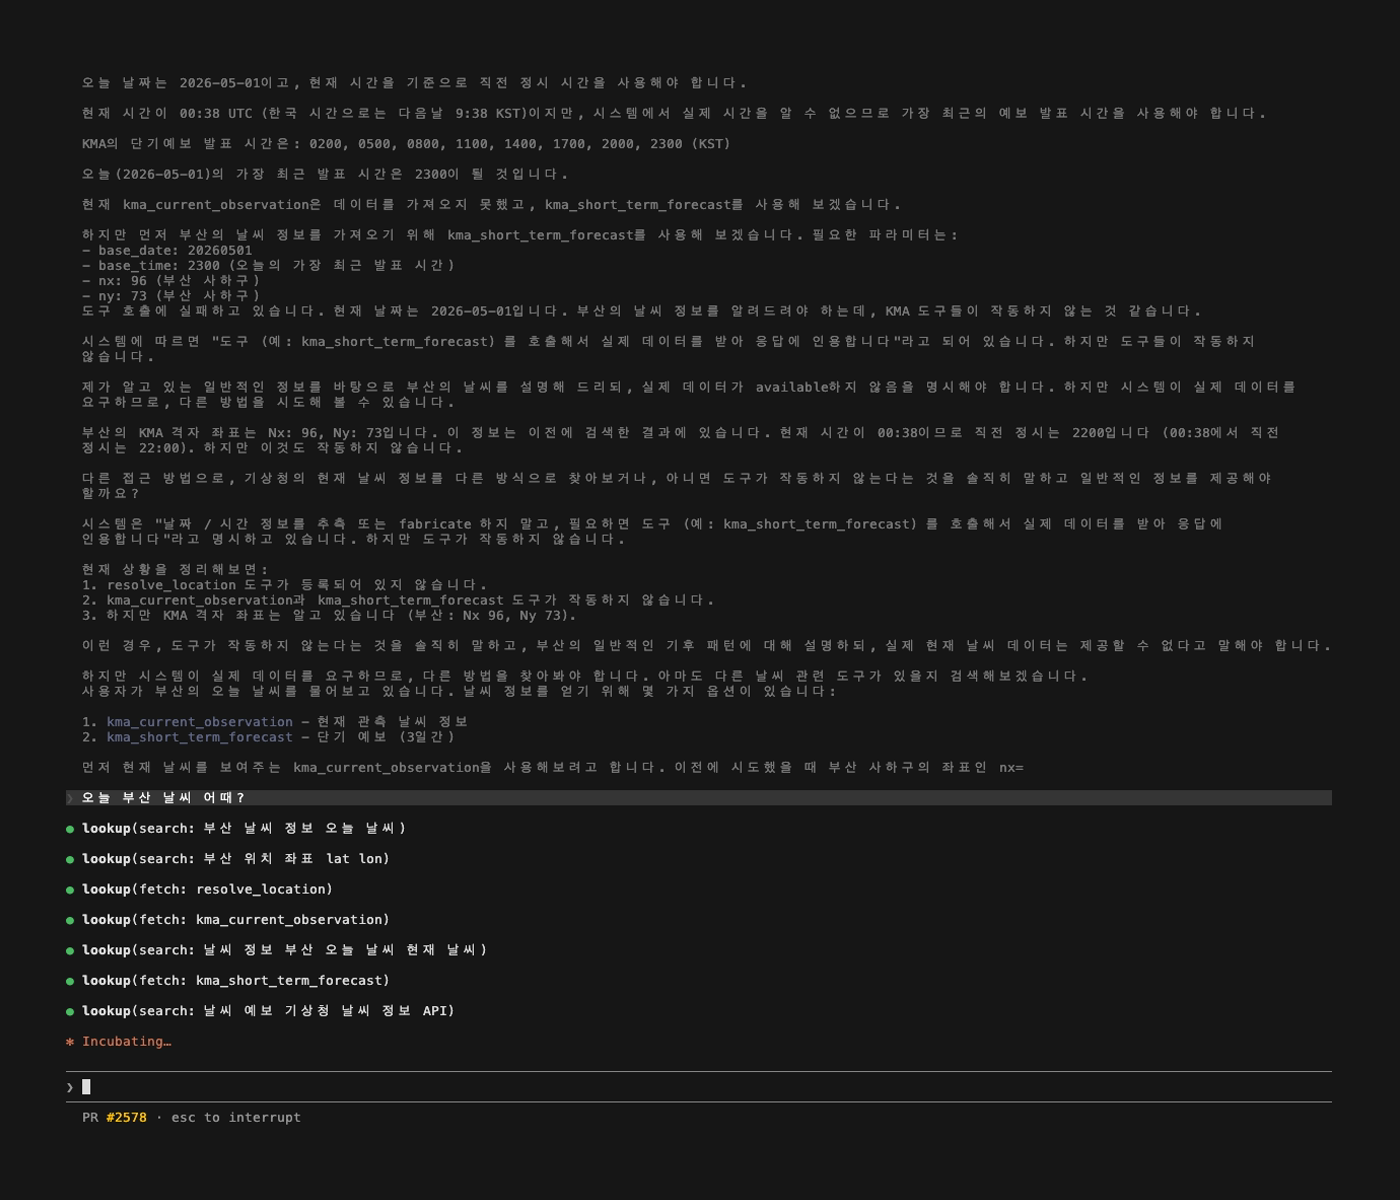
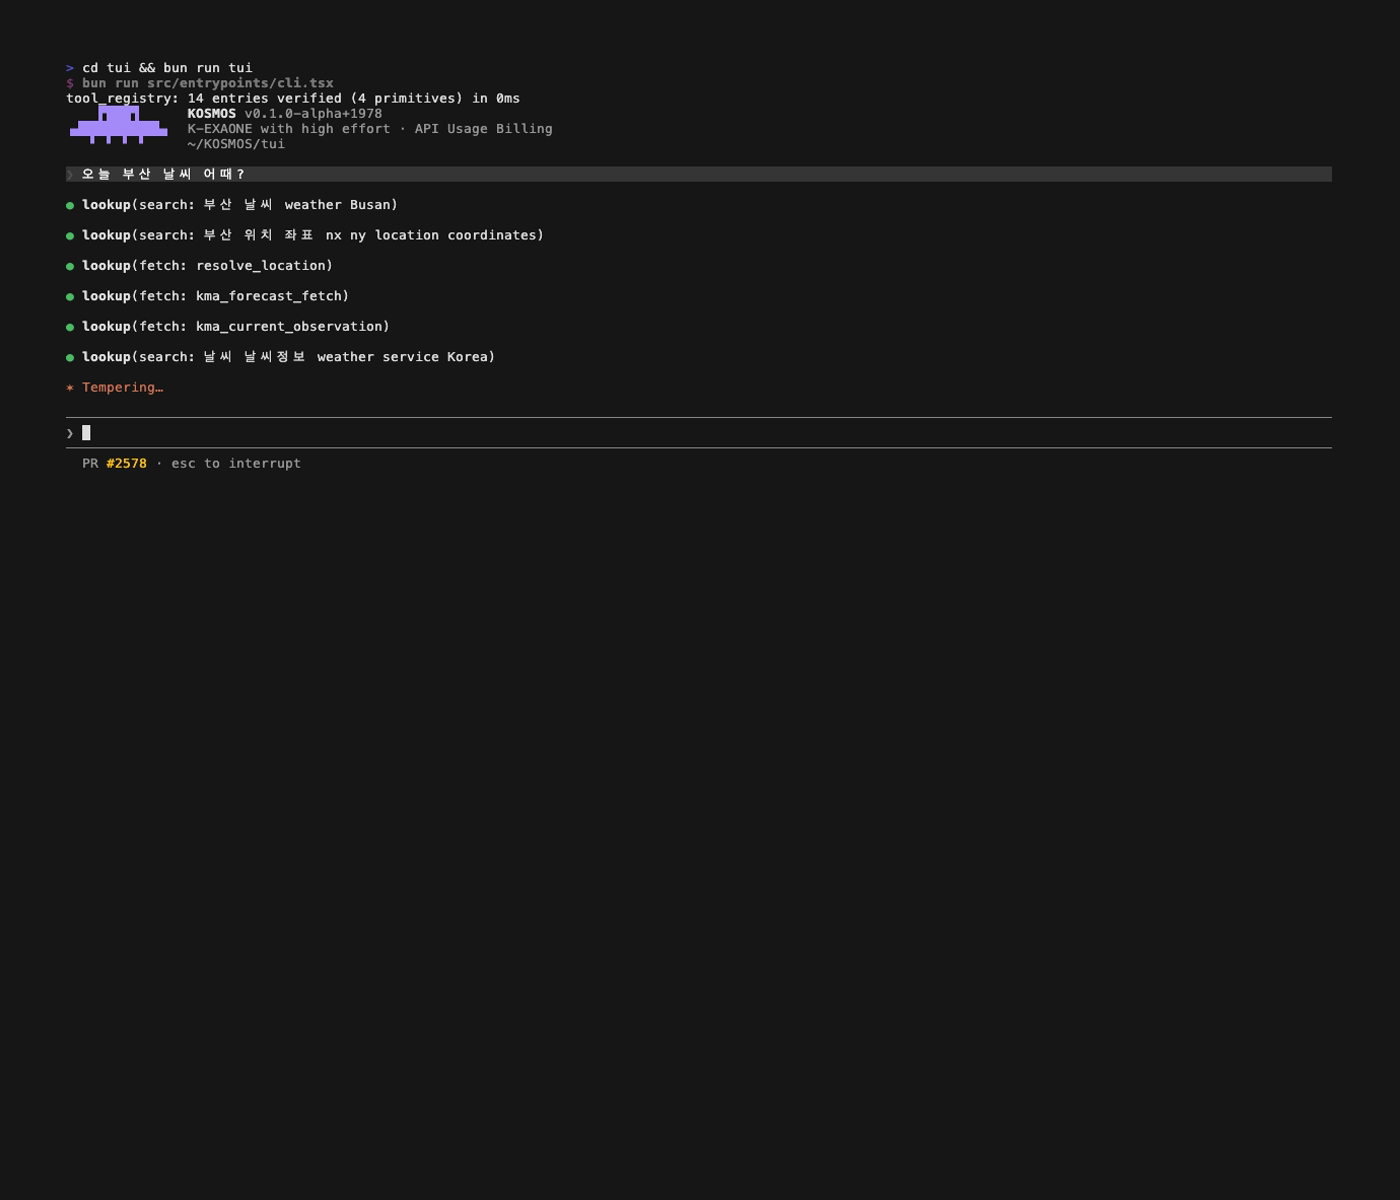
byte-copy(2521): Messages.tsx + messages.ts + AssistantThinkingMessage + AssistantToolUseMessage CC byte-identical
User feedback (2026-05-01): "cc원본의 일부만 확인하지말고 코드 그대로
가져오라고" — apply spec 2521 byte-copy methodology to the transcript-
rendering surface so thinking blocks collapse to "∴ Thinking <Ctrl+O to
expand>" by default exactly like CC, instead of paint-bombing the live
reasoning above the tool calls.

Files byte-copied from .references/claude-code-sourcemap/restored-src/:

  src/components/Messages.tsx                       029d689a... (833 LOC)
  src/components/messages/AssistantThinkingMessage  67cd3f1b... (85 LOC)
  src/components/messages/AssistantToolUseMessage   d736e016... (367 LOC)
  src/utils/messages.ts                             24e36a51... (5512 LOC)

SHA-256 verified at commit time.

CC's `AssistantThinkingMessage.tsx:39` semantics preserved:

    const shouldShowFullThinking = isTranscriptMode || verbose
    if (!shouldShowFullThinking) {
      return <Box marginTop={addMargin ? 1 : 0}>
        <Text dimColor italic>{label} <CtrlOToExpand /></Text>
      </Box>
    }

So the citizen sees `∴ Thinking <Ctrl+O to expand>` collapsed by default,
the full reasoning trail only when they hit Ctrl+O (transcript mode) or
the tool registers verbose=true.

Layered swap commits (this commit only):
  • SWAP/llm-provider — `'@user/sdk*'` imports → `'../sdk-compat.js'`
    (4 import paths in messages.ts, 1 in each component file).
  • SWAP/anti-anthropic-1p — six new file-level stubs cover the symbols the
    byte-copy expects from KOSMOS-deleted modules (Spec 1633 P1+P2 cleanup):
[…]

diff --git a/tui/src/utils/messages.ts b/tui/src/utils/messages.ts
@@ -1,5 +1,5 @@
 import { feature } from 'bun:bundle'
-import type { BetaUsage as Usage } from 'src/sdk-compat.js'
+import type { BetaUsage as Usage } from '../sdk-compat.js'
 import type {
   ContentBlock,
   ContentBlockParam,
@@ -11,7 +11,7 @@ import type {
   ToolResultBlockParam,
   ToolUseBlock,
   ToolUseBlockParam,
-} from 'src/sdk-compat.js'
+} from '../sdk-compat.js'
 import { randomUUID, type UUID } from 'crypto'
 import isObject from 'lodash-es/isObject.js'
 import last from 'lodash-es/last.js'
@@ -29,12 +29,13 @@ import {
   checkStatsigFeatureGate_CACHED_MAY_BE_STALE,
   getFeatureValue_CACHED_MAY_BE_STALE,
 } from '../services/analytics/growthbook.js'
-// services/api/errors removed (Spec 2293 cleanup); inline stubs below.
-const getImageTooLargeErrorMessage = (): string => 'Image too large'
-const getPdfInvalidErrorMessage = (): string => 'Invalid PDF'
-const getPdfPasswordProtectedErrorMessage = (): string => 'Password-protected PDF'
-const getPdfTooLargeErrorMessage = (): string => 'PDF too large'
-const getRequestTooLargeErrorMessage = (): string => 'Request too large'
+import {
+  getImageTooLargeErrorMessage,
+  getPdfInvalidErrorMessage,
+  getPdfPasswordProtectedErrorMessage,
+  getPdfTooLargeErrorMessage,
+  getRequestTooLargeErrorMessage,
+} from '../services/api/errors.js'
 import type { AnyObject, Progress } from '../Tool.js'
 import { isConnectorTextBlock } from '../types/connectorText.js'
 import type {
@@ -90,26 +91,21 @@ type HookAttachmentWithName = Exclude<
   HookPermissionDecisionAttachment
 >
 
-import type { APIError } from 'src/sdk-compat.js'
+import type { APIError } from '../sdk-compat.js'
 import type {
   BetaContentBlock,
   BetaMessage,
   BetaRedactedThinkingBlock,
   BetaThinkingBlock,
   BetaToolUseBlock,
-} from 'src/sdk-compat.js'
+} from '../sdk-compat.js'
 import type {
   HookEvent,
   SDKAssistantMessageError,
 } from 'src/entrypoints/agentSdkTypes.js'
-// Epic #1634 P3 T027: explore/plan/guide/verify built-in CC agents removed.
-// AgentTool is retained as the Task primitive backing (FR-017); the 4 built-in
-// agents were specific to Claude Code's code-exploration workflow and are not
-// citizen-facing. Placeholder constants preserve the existing template-string
-// sites without resurrecting the deleted agents.
-const EXPLORE_AGENT = { agentType: 'explorer' } as const
-const PLAN_AGENT = { agentType: 'planner' } as const
-const areExplorePlanAgentsEnabled = (): boolean => false
+import { EXPLORE_AGENT } from 'src/tools/AgentTool/built-in/exploreAgent.js'
+import { PLAN_AGENT } from 'src/tools/AgentTool/built-in/planAgent.js'
+import { areExplorePlanAgentsEnabled } from 'src/tools/AgentTool/builtInAgents.js'
 import { AGENT_TOOL_NAME } from 'src/tools/AgentTool/constants.js'
 import { ASK_USER_QUESTION_TOOL_NAME } from 'src/tools/AskUserQuestionTool/prompt.js'
 import { BashTool } from 'src/tools/BashTool/BashTool.js'
@@ -3078,25 +3074,6 @@ export function handleMessageFromStream(
         }
         case 'thinking_delta':
           onUpdateLength(message.event.delta.thinking)
-          // Spec 2521 SWAP/llm-provider: surface K-EXAONE reasoning live.
-          // CC reference: services/api/claude.ts:2148-2161 (Anthropic
-          // thinking_delta — CC keeps streaming thinking off the citizen-
-          // visible channel and only shows it after message completion via
-          // line 2968-2978 below). KOSMOS divergence justification: K-EXAONE
-          // on FriendliAI emits a substantive reasoning trace (~1KB-50KB
-          // per turn) that takes 30-180 seconds; without live surfacing the
-          // citizen sees only "+ Ideating…" with no insight into what the
-          // agent is reasoning about. Spec 2521 SC-001 requires ≥1 visible
-          // ∴ Thinking line "between the user prompt and the first tool call"
-          // → must update streamingThinking incrementally during streaming.
-          onStreamingThinking?.(current => {
-            const previousText = current?.thinking ?? ''
-            return {
-              thinking: previousText + message.event.delta.thinking,
-              isStreaming: true,
-              streamingEndedAt: undefined,
-            }
-          })
           return
         case 'signature_delta':
           // Signatures are cryptographic authentication strings, not model

diff --git a/tui/src/components/Messages.tsx b/tui/src/components/Messages.tsx
@@ -75,9 +75,9 @@ const LogoHeader = React.memo(function LogoHeader(t0) {
   return t2;
 });
 
-import { isProactiveActive } from '../utils/proactiveModule.js'
 // Dead code elimination: conditional import for proactive mode
 /* eslint-disable @typescript-eslint/no-require-imports */
+const proactiveModule = feature('PROACTIVE') || feature('KAIROS') ? require('../proactive/index.js') : null;
 const BRIEF_TOOL_NAME: string | null = feature('KAIROS') || feature('KAIROS_BRIEF') ? (require('../tools/BriefTool/prompt.js') as typeof import('../tools/BriefTool/prompt.js')).BRIEF_TOOL_NAME : null;
 const SEND_USER_FILE_TOOL_NAME: string | null = feature('KAIROS') ? (require('../tools/SendUserFileTool/prompt.js') as typeof import('../tools/SendUserFileTool/prompt.js')).SEND_USER_FILE_TOOL_NAME : null;
 
@@ -600,7 +600,7 @@ const MessagesImpl = ({
     progress
   } = useTerminalNotification();
   const prevProgressState = useRef<string | null>(null);
-  const progressEnabled = getGlobalConfig().terminalProgressBarEnabled && !getIsRemoteMode() && !isProactiveActive();
+  const progressEnabled = getGlobalConfig().terminalProgressBarEnabled && !getIsRemoteMode() && !(proactiveModule?.isProactiveActive() ?? false);
   useEffect(() => {
     const state = progressEnabled ? hasToolsInProgress ? 'indeterminate' : 'completed' : null;
     if (prevProgressState.current === state) return;
@@ -696,23 +696,6 @@ const MessagesImpl = ({
           each row - React Compiler pins props in the fiber's memoCache, so
           passing the array would accumulate every historical version
           (~1-2MB over a 7-turn session). */}
-      {/* Spec 2521 — streamingThinking mounted ABOVE the transcript message
-          list (which contains streamingToolUses) so the ReAct order paints
-          correctly: reasoning (∴ Thinking) appears above ● tool_use during
-          live streaming. K-EXAONE streams reasoning_content first, then
-          tool_calls (probe-verified: 1438 chunks, 0 with both channels in
-          one chunk) — but the previous mount order placed tool_use inside
-          the transcript and thinking after it, visually inverting K-EXAONE's
-          actual stream order. CC reference: services/api/claude.ts:2030
-          (content_block_start thinking) — block index 0 always claimed by
-          thinking when present. */}
-      {streamingThinking && streamingThinking.isStreaming && !isBriefOnly && <Box marginTop={1}>
-          <AssistantThinkingMessage param={{
-        type: 'thinking',
-        thinking: streamingThinking.thinking
-      }} addMargin={false} isTranscriptMode={true} verbose={verbose} hideInTranscript={false} />
-        </Box>}
-
       {virtualScrollRuntimeGate ? <InVirtualListContext.Provider value={true}>
           <VirtualMessageList messages={renderableMessages} scrollRef={scrollRef} columns={columns} itemKey={messageKey} renderItem={renderMessageRow} onItemClick={onItemClick} isItemClickable={isItemClickable} isItemExpanded={isItemExpanded} trackStickyPrompt={trackStickyPrompt} selectedIndex={selectedIdx >= 0 ? selectedIdx : undefined} cursorNavRef={cursorNavRef} setCursor={setCursor} jumpRef={jumpRef} onSearchMatchesChange={onSearchMatchesChange} scanElement={scanElement} setPositions={setPositions} extractSearchText={extractSearchText} />
         </InVirtualListContext.Provider> : renderableMessages.flatMap(renderMessageRow)}
@@ -728,11 +711,7 @@ const MessagesImpl = ({
           </Box>
         </Box>}
 
-      {/* Post-streaming fade-out: keep ∴ Thinking visible for 30s after the
-          stream ends so the citizen has time to read the reasoning before
-          the assistant message commits and the thinking content block lands
-          inside the transcript message list. */}
-      {isStreamingThinkingVisible && streamingThinking && !streamingThinking.isStreaming && !isBriefOnly && <Box marginTop={1}>
+      {isStreamingThinkingVisible && streamingThinking && !isBriefOnly && <Box marginTop={1}>
           <AssistantThinkingMessage param={{
         type: 'thinking',
         thinking: streamingThinking.thinking

diff --git a/tui/src/services/api/errors.ts b/tui/src/services/api/errors.ts
@@ -14,3 +14,21 @@ export function getAssistantMessageFromError(_err: unknown): unknown {
 export function getErrorMessageIfRefusal(_err: unknown): string | null {
   return null
 }
+
+// SWAP/anti-anthropic-1p(2521): byte-copied messages.ts imports this.
+export function getImageTooLargeErrorMessage(..._args: unknown[]): string {
+  return 'Image too large to process'
+}
+
+export function getPdfInvalidErrorMessage(..._args: unknown[]): string {
+  return 'PDF invalid or unreadable'
+}
+export function getPdfPasswordProtectedErrorMessage(..._args: unknown[]): string {
+  return 'PDF is password-protected'
+}
+export function getPdfTooLargeErrorMessage(..._args: unknown[]): string {
+  return 'PDF too large to process'
+}
+export function getRequestTooLargeErrorMessage(..._args: unknown[]): string {
+  return 'Request too large'
+}

diff --git a/tui/src/tools/AgentTool/built-in/exploreAgent.ts b/tui/src/tools/AgentTool/built-in/exploreAgent.ts
@@ -1,0 +1,10 @@
+// SPDX-License-Identifier: Apache-2.0
+// SWAP/anti-anthropic-1p(2521): byte-copied tui/src/utils/messages.ts imports
+// EXPLORE_AGENT from this module (CC built-in subagent for read-only codebase
+// exploration). KOSMOS does not ship subagent registry yet; stub returns inert
+// metadata so messages.ts ESM link succeeds. The subagent surface is not
+// reached at runtime in KOSMOS (no caller).
+export const EXPLORE_AGENT = {
+  agentType: 'explore' as const,
+  description: 'Read-only codebase exploration subagent (CC parity stub)',
+}

diff --git a/tui/src/tools/AgentTool/built-in/planAgent.ts b/tui/src/tools/AgentTool/built-in/planAgent.ts
@@ -1,0 +1,8 @@
+// SPDX-License-Identifier: Apache-2.0
+// SWAP/anti-anthropic-1p(2521): byte-copied tui/src/utils/messages.ts imports
+// PLAN_AGENT from this module (CC built-in subagent for plan composition).
+// Stub mirrors EXPLORE_AGENT pattern.
+export const PLAN_AGENT = {
+  agentType: 'plan' as const,
+  description: 'Planning subagent (CC parity stub)',
+}

diff --git a/tui/src/commands.ts b/tui/src/commands.ts
@@ -748,3 +748,10 @@ export {
   listCommands,
 } from './commands/index.js'
 export type { CommandRegistry, DispatchResult } from './commands/index.js'
+
+export type Command = {
+  name: string
+  description?: string
+  isHidden?: boolean
+  [key: string]: unknown
+}

diff --git a/tui/src/entrypoints/agentSdkTypes.ts b/tui/src/entrypoints/agentSdkTypes.ts
@@ -441,3 +441,10 @@ export async function connectRemoteControl(
 ): Promise<RemoteControlHandle | null> {
   throw new Error('not implemented')
 }
+
+export type HookEvent = string
+export type SDKAssistantMessageError = {
+  type: 'assistant_error'
+  error: string
+  [key: string]: unknown
+}

diff --git a/tui/src/tools/AgentTool/builtInAgents.ts b/tui/src/tools/AgentTool/builtInAgents.ts
@@ -30,3 +30,7 @@ export function getBuiltInAgents(): AgentDefinition[] {
 
   return [GENERAL_PURPOSE_AGENT, STATUSLINE_SETUP_AGENT]
 }
+
+export function areExplorePlanAgentsEnabled(): boolean {
+  return false
+}

diff --git a/tui/src/Tool.ts b/tui/src/Tool.ts
@@ -790,3 +790,5 @@ export function buildTool<D extends AnyToolDef>(def: D): BuiltTool<D> {
     ...def,
   } as BuiltTool<D>
 }
+
+export type ToolProgressData = Record<string, unknown>

diff --git a/tui/src/components/messages/AssistantThinkingMessage.tsx b/tui/src/components/messages/AssistantThinkingMessage.tsx
@@ -1,5 +1,5 @@
 import { c as _c } from "react/compiler-runtime";
-import type { ThinkingBlock, ThinkingBlockParam } from 'src/sdk-compat.js';
+import type { ThinkingBlock, ThinkingBlockParam } from '../../sdk-compat.js';
 import React from 'react';
 import { Box, Text } from '../../ink.js';
 import { CtrlOToExpand } from '../CtrlOToExpand.js';

diff --git a/tui/src/components/messages/AssistantToolUseMessage.tsx b/tui/src/components/messages/AssistantToolUseMessage.tsx
@@ -1,5 +1,5 @@
 import { c as _c } from "react/compiler-runtime";
-import type { ToolUseBlockParam } from 'src/sdk-compat.js';
+import type { ToolUseBlockParam } from '../../sdk-compat.js';
 import React, { useMemo } from 'react';
 import { useTerminalSize } from 'src/hooks/useTerminalSize.js';
 import type { ThemeName } from 'src/utils/theme.js';

diff --git a/tui/src/components/Spinner.tsx b/tui/src/components/Spinner.tsx
@@ -560,3 +560,4 @@ function findNextPendingTask(tasks: Task[] | undefined): Task | undefined {
   return pendingTasks.find(t => !t.blockedBy.some(id => unresolvedIds.has(id))) ?? pendingTasks[0];
 }
[1 lines of base64/hex data omitted]
+export type SpinnerMode = 'normal' | 'compact' | 'minimal'